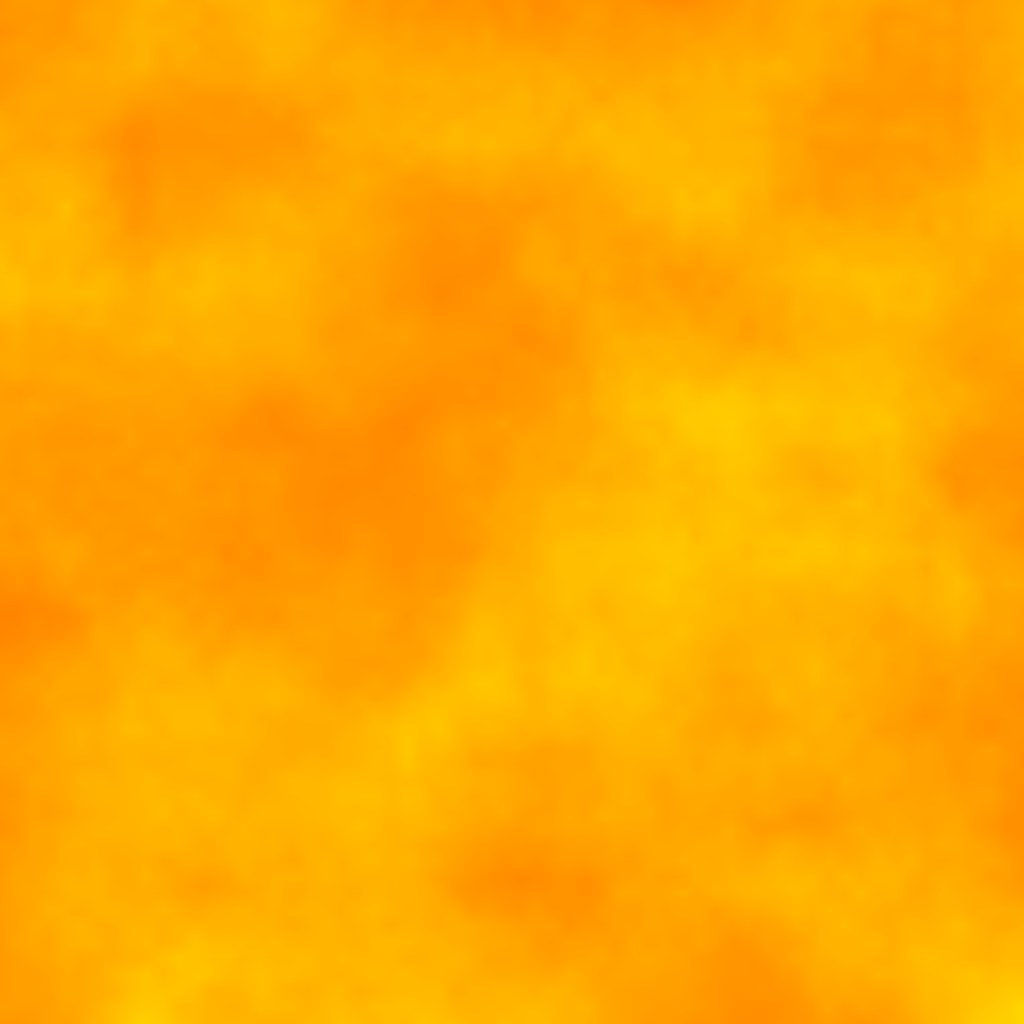
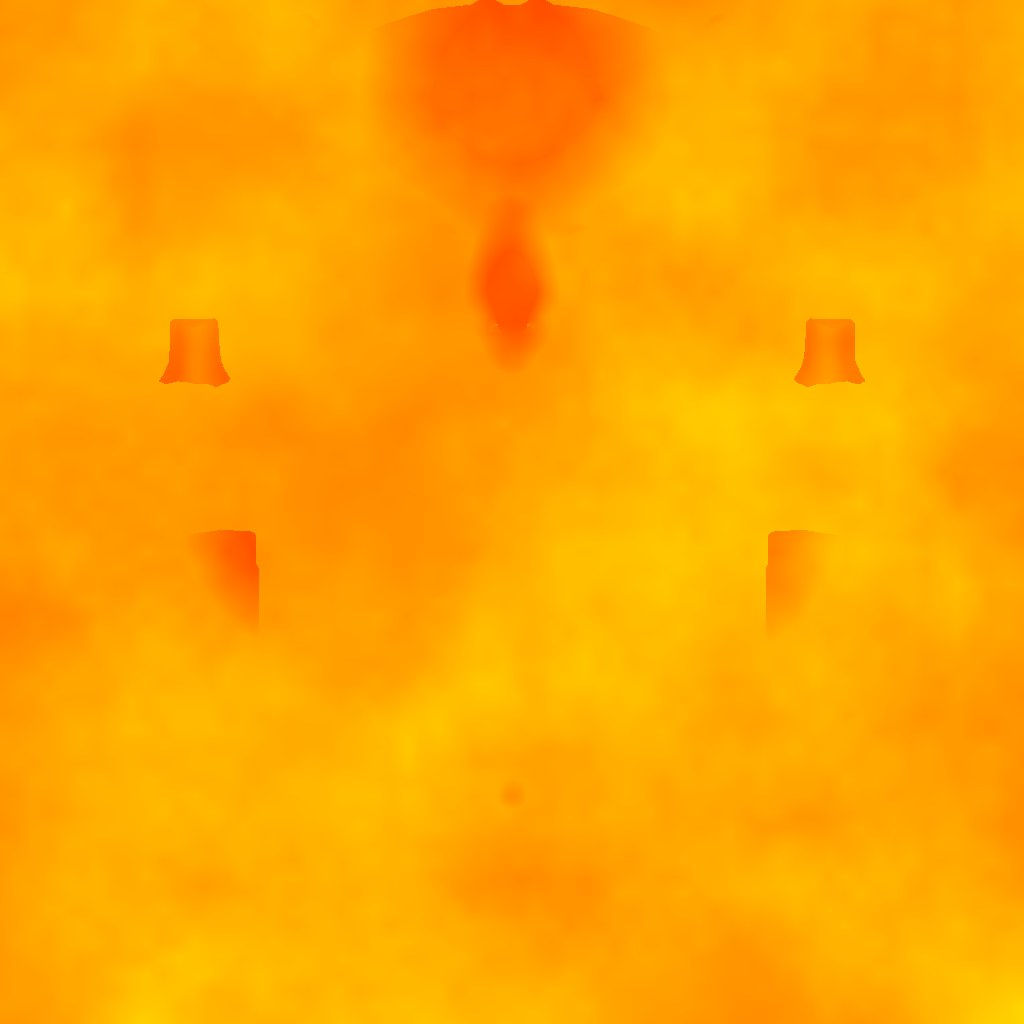
Realistic face: olive Mediterranean tone, hair-stroke brows, lash line, brow scar, temple dirt, T-zone shine
Skin base lifted to an olive Greek/Roman tone (owner: gladiator, not African); cavity and dust
darkening eased so the tone survives the AO pass. Brows now a dense core with hair breakup,
heavier at the nose; lash margin on the upper lid; ears pulled down; a healed scar across the
left brow; faint sweat-dirt runs at the temples only; roughness tightened on forehead and nose.
Demo build only (WARRIOR_BODY=realistic); shipped warrior.glb byte-identical.

diff --git a/scripts/character/parts.py b/scripts/character/parts.py
@@ -580,11 +580,17 @@ def face_paint(colour, pos, mask, size):
     front = np.clip((f['nose'].y + 0.09 - pos[..., 1]) / 0.03, 0, 1)  # face-facing texels only
     noise = fbm(size, 61, octaves=(64, 128))
     # Brows: two tapered arcs of hair strokes above the eyes, denser toward the nose.
-    strokes = fbm(size, 63, octaves=(256,))  # fine, directional-looking grain
+    strokes = np.clip((fbm(size, 63, octaves=(128, 512)) - 0.42) * 3, 0, 1)  # hair breakup over a dense core
     for sx in (1, -1):
-        taper = np.clip(1 - (sx * pos[..., 0] - ex) / 0.03, 0.35, 1)  # thinner toward the temple
-        brow = ellipse(pos, (sx * (ex + 0.004), ey - 0.006, ez + 0.026), (0.027, 0.02, 0.0042), 0.6) * taper
-        colour *= 1 - (brow * (0.35 + strokes * 0.6) * 0.85 * front)[..., None]
+        inner = np.clip(1 - (sx * pos[..., 0] - ex + 0.012) / 0.04, 0.3, 1)  # heavy at the nose, thinning to the temple
+        thick = ellipse(pos, (sx * (ex + 0.002), ey - 0.006, ez + 0.026), (0.028, 0.02, 0.0056), 0.55)
+        thin = ellipse(pos, (sx * (ex + 0.002), ey - 0.006, ez + 0.026), (0.028, 0.02, 0.0036), 0.55)
+        brow = (thin + (thick - thin) * inner) * inner
+        colour *= 1 - (brow * (0.55 + strokes * 0.45) * 0.88 * front)[..., None]
+    # Lash line: a thin dark margin along the upper lid.
+    for sx in (1, -1):
+        lash = ellipse(pos, (sx * ex, ey - 0.012, ez + 0.011), (0.017, 0.012, 0.0016), 0.5)
+        colour *= 1 - (lash * 0.7 * front)[..., None]
     # Eye sockets and lids: a little depth, and a warm shadow.
     for sx in (1, -1):
         socket = ellipse(pos, (sx * ex, ey + 0.004, ez + 0.006), (0.03, 0.022, 0.02), 0.6)
@@ -601,6 +607,16 @@ def face_paint(colour, pos, mask, size):
         flush = np.maximum(flush, ellipse(pos, (sx * f['ear_x'], ey + 0.07, ez), (0.02, 0.03, 0.035), 0.8) * 0.8)
     colour[..., 0] *= 1 + flush * 0.10
     colour[..., 2] *= 1 - flush * 0.10
+    ears = np.maximum(ellipse(pos, (f['ear_x'], ey + 0.07, ez), (0.025, 0.035, 0.04), 0.6), ellipse(pos, (-f['ear_x'], ey + 0.07, ez), (0.025, 0.035, 0.04), 0.6))
+    colour *= (1 - ears * 0.12)[..., None]  # ears sit in shadow and read too bright otherwise
+    # An old scar across the left brow and cheek, and dirt streaks down from the temples.
+    for k in range(60):
+        t = k / 60
+        sc = ellipse(pos, (ex + 0.02 - t * 0.03, ey - 0.03 + t * 0.012, ez + 0.045 - t * 0.075), (0.0032, 0.01, 0.0032), 0.8)
+        colour = colour * (1 - sc[..., None] * 0.35) + np.array([0.50, 0.30, 0.26])[None, None, :] * (sc * 0.35)[..., None]
+    streak = fbm(size, 65, octaves=(16, 256))  # thin vertical-ish runs of sweat-dirt, not patches
+    temples = np.maximum(ellipse(pos, (ex + 0.045, ey + 0.03, ez + 0.02), (0.012, 0.02, 0.045), 0.9), ellipse(pos, (-(ex + 0.045), ey + 0.03, ez + 0.02), (0.012, 0.02, 0.045), 0.9))
+    colour *= (1 - temples * np.clip((streak - 0.58) * 6, 0, 1) * 0.10 * front)[..., None]
     # Stubble: jaw, chin and upper lip, front half of the head.
     c = f['chin']
     jaw = np.clip((m.z - 0.008 - pos[..., 2]) / 0.02, 0, 1) * np.clip((pos[..., 2] - (c.z - 0.045)) / 0.02, 0, 1) * front
@@ -615,7 +631,13 @@ def face_paint(colour, pos, mask, size):
     dense = (np.random.default_rng(64).random((size, size)) < 0.75).astype(np.float32)
     colour *= (1 - scalp * (0.55 + dense * 0.25))[..., None]
     colour *= 1 - (scalp * 0.1)[..., None] * np.array([0, 0.3, 0.6])[None, None, :]  # a cool cast to the shaved scalp
+    global FACE_SHINE
+    FACE_SHINE = np.maximum(ellipse(pos, (0, ey - 0.02, ez + 0.055), (0.035, 0.03, 0.03), 0.9),
+                            ellipse(pos, (n.x, n.y, n.z + 0.01), (0.014, 0.02, 0.03), 0.9)) * front  # forehead and nose sweat
     return np.clip(colour, 0, 1)
+
+
+FACE_SHINE = None
 
 
 def eye_maps(eye, size=512):
@@ -763,20 +785,23 @@ def skin_maps_procedural(size=2048):
     """Skin for the realistic body, which ships without textures: a warm base with subtle tone variation, veins and
     blotching in the low noise, the baked occlusion as cavity, dust and grit as before, pores in the normal."""
     os.makedirs(materials_out, exist_ok=True)
-    base = np.array([0.46, 0.32, 0.245])[None, None, :]  # linear; a Mediterranean tone under arena sun, not orange
+    base = np.array([0.60, 0.44, 0.31])[None, None, :]  # linear; olive Mediterranean — a Greek/Roman gladiator under sun, not African
     tone = fbm(size, 41, octaves=(4, 8, 16, 32))[..., None]
-    colour = base * (0.86 + tone * 0.28)
+    colour = base * (0.90 + tone * 0.22)
+    colour[..., 1] *= 1 + (tone[..., 0] - 0.5) * 0.06  # the olive cast lives in a slight green-yellow shift, not a grey one
     colour[..., 0] *= 1 + (fbm(size, 42, octaves=(8, 16)) - 0.5) * 0.12  # blood flush variation
     colour[..., 2] *= 1 - (fbm(size, 43, octaves=(16, 32)) - 0.5) * 0.10
     ao_full = upsample(AO, size) if AO.shape[0] != size else AO
-    colour = colour * (0.40 + 0.60 * np.clip(ao_full, 0, 1) ** 1.5)[..., None]
+    colour = colour * (0.55 + 0.45 * np.clip(ao_full, 0, 1) ** 1.2)[..., None]  # cavity only; lighting does the rest
     dust = np.clip((fbm(size, 1, octaves=(4, 8, 16, 64)) - 0.42) * 2.4, 0, 1)[..., None]
-    colour = colour * (1 - dust * 0.45) + np.array([0.20, 0.19, 0.18])[None, None, :] * dust * 0.45
+    colour = colour * (1 - dust * 0.30) + np.array([0.30, 0.28, 0.25])[None, None, :] * dust * 0.30  # arena dust, lighter than soot
     pos, mask = bake_position(body, size)
     colour = face_paint(colour, pos, mask, size)
     normal = pore_normal(bake_high_normal(body, HIGH, size), strength=0.5)  # sculpted lids, folds and knuckles + pores
     r = size // 2
     rough = np.clip(0.62 + (fbm(r, 8) - 0.5) * 0.3 + dust[::2, ::2, 0] * 0.2, 0.35, 0.95)
+    if FACE_SHINE is not None:
+        rough = np.clip(rough - FACE_SHINE[::2, ::2] * 0.25, 0.25, 0.95)  # T-zone sweat: tighter highlights
     orm = np.stack([np.ones_like(rough), rough, np.zeros_like(rough)], axis=2)
     return {'baseColor': save_two_sizes('skin_color', colour, 'sRGB'), 'normal': save_two_sizes('skin_normal', normal, 'Non-Color'), 'metallicRoughness': save_jpeg('skin_orm', orm, 'Non-Color')}
 
